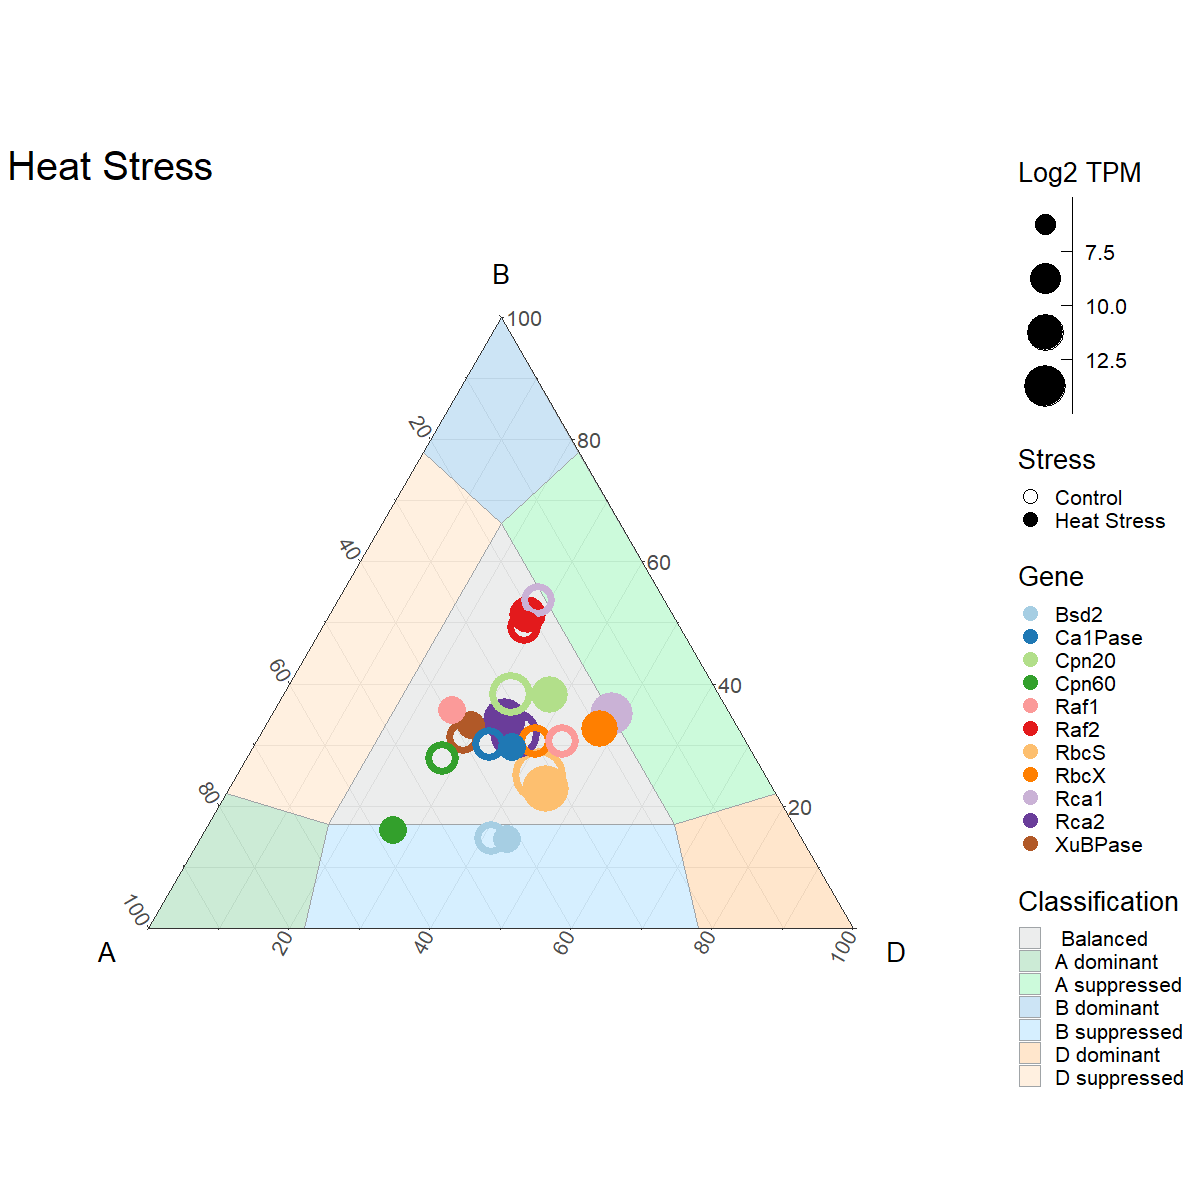
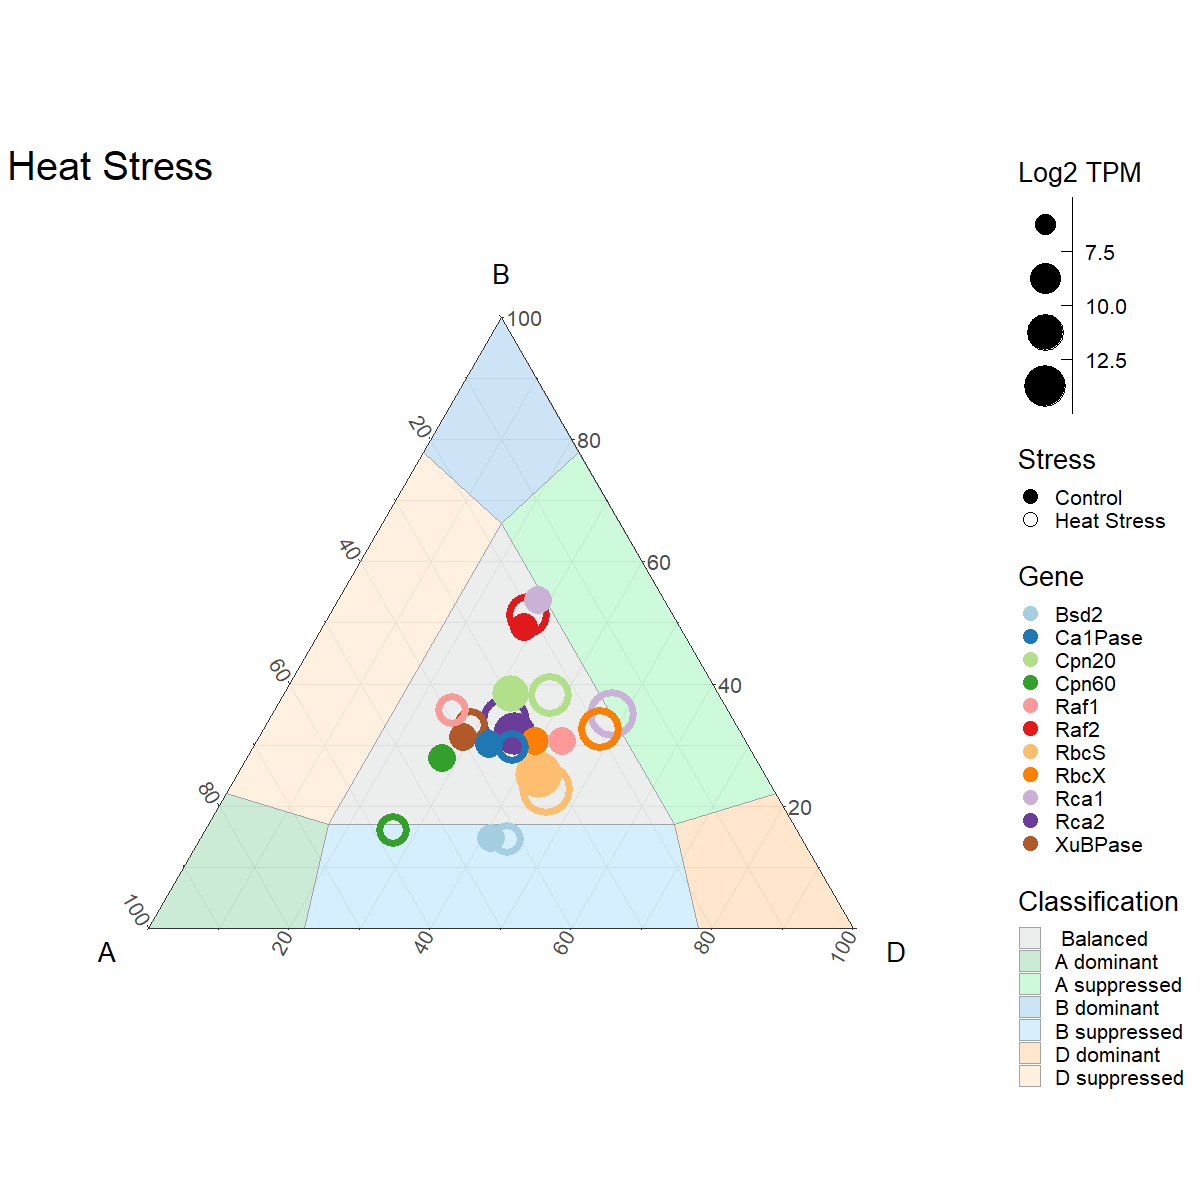
Swaped Control and Heat Stress points around

diff --git a/Wheat-Rubiscosome-Expression-Balance-Report.md b/Wheat-Rubiscosome-Expression-Balance-Report.md
@@ -449,7 +449,7 @@ HeatStress <- ggtern(data=df,aes(A,B,D)) +
                  size=log2tpm,
                  shape=Stress,
                  stroke=4)) +
-  scale_shape_manual(values=c(21, 16)) +
+  scale_shape_manual(values=c(16, 21)) +
   scale_size_binned(range = c(1, 15),
                     breaks = c(7.5, 10, 12.5)) +
   scale_color_manual(values=c("#a6cee3", "#1f78b4", "#b2df8a", "#33a02c",
@@ -484,7 +484,7 @@ HeatStressRca <- ggtern(data=df,aes(A,B,D)) +
                  size=log2tpm,
                  shape=Stress,
                  stroke = 4)) +
-  scale_shape_manual(values=c(21, 16)) +
+  scale_shape_manual(values=c(16, 21)) +
   scale_size_binned(range = c(1, 15),
                     breaks = c(7.5, 10, 12.5)) +
   scale_color_manual(values=c("#cab2d6", "#6a3d9a")) +
@@ -493,7 +493,7 @@ HeatStressRca <- ggtern(data=df,aes(A,B,D)) +
          shape = guide_legend(override.aes = list(size=5))) +
   theme(plot.title = element_text(size = 30),
         text = element_text(size=20))+
-  labs(subtitle="Heat Stress",
+  labs(subtitle="",
        fill = "Classification",
        T="B",
        L="A",
